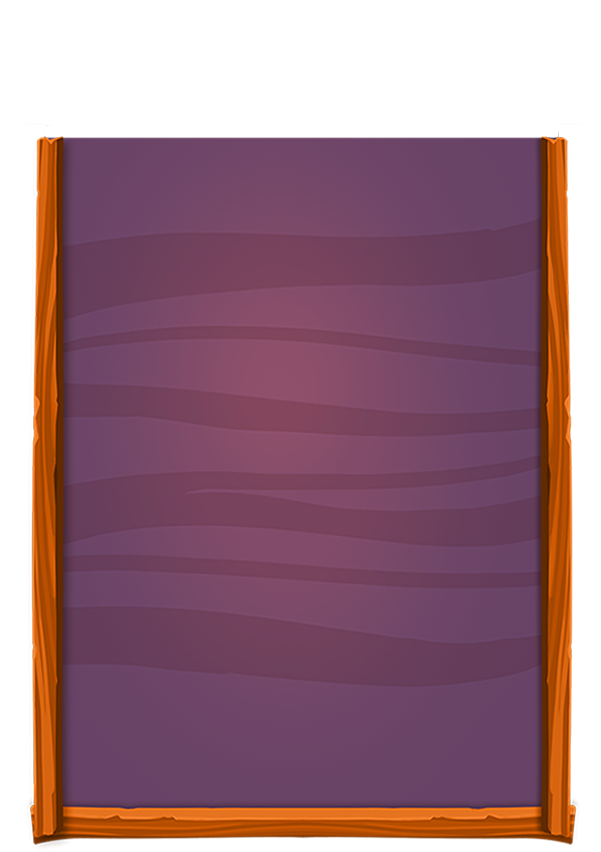
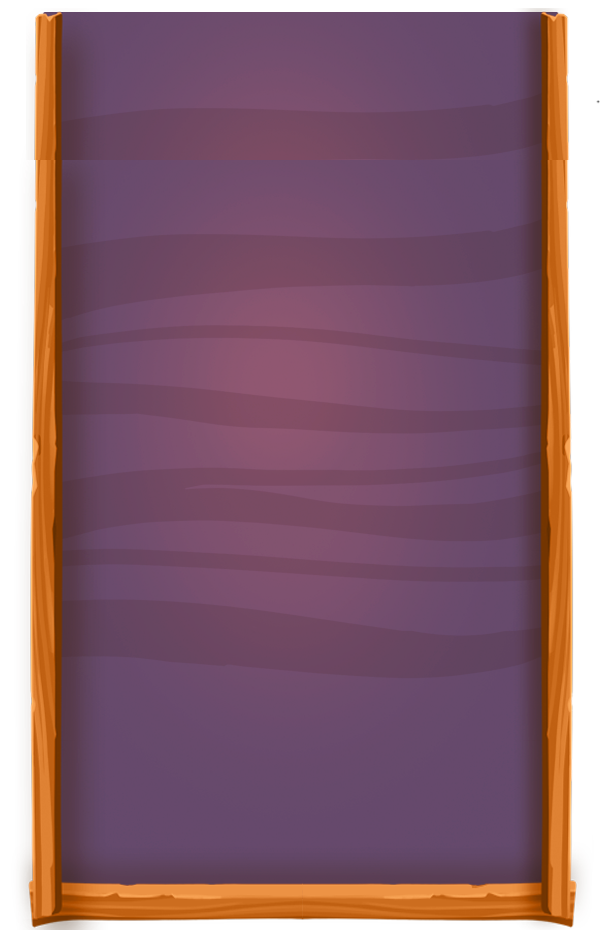
resize shop window

Changed region(s): [[0.03, 0.0, 0.9584, 1.0]]

diff --git a/src/scripts/scenes/Modal/Shop/Bars.ts b/src/scripts/scenes/Modal/Shop/Bars.ts
@@ -20,10 +20,10 @@ class ShopBars extends Phaser.Scene {
   public create(): void {
     
     // бахрама
-    this.add.sprite(this.cameras.main.centerX, this.cameras.main.centerY - 300, 'shop-head').setDepth(2);
+    this.add.sprite(this.cameras.main.centerX, this.cameras.main.centerY - 390, 'shop-head').setDepth(2);
 
     // кнопка закрыть
-    let close: Phaser.GameObjects.Sprite = this.add.sprite(605, this.cameras.main.centerY - 375, 'shop-close');
+    let close: Phaser.GameObjects.Sprite = this.add.sprite(605, this.cameras.main.centerY - 465, 'shop-close');
     this.clickButtonUp(close, (): void => {
 
       this.game.scene.keys[this.state.farm].scrolling.wheel = true;
@@ -36,10 +36,10 @@ class ShopBars extends Phaser.Scene {
     //натив вкладки с бустами
     this.nativeBoost = this.add.graphics()
       .fillStyle(0xFF2400, 1)
-      .fillCircle(550, this.cameras.main.centerY - 430, 20)
+      .fillCircle(550, this.cameras.main.centerY - 520, 20)
       .setDepth(2)
       .setVisible(false);
-    this.nativeBoostCounter = this.add.text(550, this.cameras.main.centerY - 430, String(this.state.nativeCounter[3]), {
+    this.nativeBoostCounter = this.add.text(550, this.cameras.main.centerY - 520, String(this.state.nativeCounter[3]), {
       font: '32px Shadow',
       color: '#f3eae6'
     }).setDepth(3)
@@ -53,13 +53,13 @@ class ShopBars extends Phaser.Scene {
     // кристаллы
     if (this.state.modal.shopType === 1) {
 
-      this.add.sprite(136, this.cameras.main.centerY - 395, 'shop-tab-active').setDepth(1);
-      this.add.sprite(136, this.cameras.main.centerY - 405, 'diamond').setScale(0.25).setDepth(1);
+      this.add.sprite(136, this.cameras.main.centerY - 485, 'shop-tab-active').setDepth(1);
+      this.add.sprite(136, this.cameras.main.centerY - 495, 'diamond').setScale(0.25).setDepth(1);
 
     } else {
       
-      let diamonds: Phaser.GameObjects.Sprite = this.add.sprite(136, this.cameras.main.centerY - 395, 'shop-tab');
-      let diamondsIcon: Phaser.GameObjects.Sprite = this.add.sprite(136, this.cameras.main.centerY - 397, 'diamond').setScale(0.25);
+      let diamonds: Phaser.GameObjects.Sprite = this.add.sprite(136, this.cameras.main.centerY - 485, 'shop-tab');
+      let diamondsIcon: Phaser.GameObjects.Sprite = this.add.sprite(136, this.cameras.main.centerY - 487, 'diamond').setScale(0.25);
       this.clickButtonUp(diamonds, (): void => {
   
         if (this.state.userSheep?.tutorial !== 90) {
@@ -97,13 +97,13 @@ class ShopBars extends Phaser.Scene {
     // монеты
     if (this.state.modal.shopType === 2) {
 
-      this.add.sprite(258, this.cameras.main.centerY - 395, 'shop-tab-active').setDepth(1);
-      this.add.sprite(258, this.cameras.main.centerY - 402, coinIcon).setScale(0.25).setDepth(1);
+      this.add.sprite(258, this.cameras.main.centerY - 485, 'shop-tab-active').setDepth(1);
+      this.add.sprite(258, this.cameras.main.centerY - 492, coinIcon).setScale(0.25).setDepth(1);
 
     } else {
 
-      let money: Phaser.GameObjects.Sprite = this.add.sprite(258, this.cameras.main.centerY - 395, 'shop-tab');
-      let moneyIcon: Phaser.GameObjects.Sprite = this.add.sprite(258, this.cameras.main.centerY - 395, coinIcon).setScale(0.25);
+      let money: Phaser.GameObjects.Sprite = this.add.sprite(258, this.cameras.main.centerY - 485, 'shop-tab');
+      let moneyIcon: Phaser.GameObjects.Sprite = this.add.sprite(258, this.cameras.main.centerY - 485, coinIcon).setScale(0.25);
       this.clickButtonUp(money, (): void => {
 
         if (this.state.userSheep?.tutorial !== 90) {
@@ -129,13 +129,13 @@ class ShopBars extends Phaser.Scene {
     // животные
     if (this.state.modal.shopType === 3) {
 
-      this.add.sprite(380, this.cameras.main.centerY - 395, 'shop-tab-active').setDepth(1);
-      this.add.sprite(380, this.cameras.main.centerY - 402, animalIconTexture).setDepth(1);
+      this.add.sprite(380, this.cameras.main.centerY - 485, 'shop-tab-active').setDepth(1);
+      this.add.sprite(380, this.cameras.main.centerY - 492, animalIconTexture).setDepth(1);
 
     } else {
 
-      let animal: Phaser.GameObjects.Sprite = this.add.sprite(380, this.cameras.main.centerY - 395, 'shop-tab');
-      let animalIcon: Phaser.GameObjects.Sprite = this.add.sprite(380, this.cameras.main.centerY - 397, animalIconTexture);
+      let animal: Phaser.GameObjects.Sprite = this.add.sprite(380, this.cameras.main.centerY - 485, 'shop-tab');
+      let animalIcon: Phaser.GameObjects.Sprite = this.add.sprite(380, this.cameras.main.centerY - 487, animalIconTexture);
       this.clickButtonUp(animal, (): void => {
 
         if (this.state.userSheep?.tutorial !== 90) {
@@ -160,13 +160,13 @@ class ShopBars extends Phaser.Scene {
     // бусты
     if (this.state.modal.shopType === 4) {
 
-      this.add.sprite(502, this.cameras.main.centerY - 395, 'shop-tab-active').setDepth(1);
-      this.add.sprite(502, this.cameras.main.centerY - 402, 'icon-shop-boosts').setDepth(1);
+      this.add.sprite(502, this.cameras.main.centerY - 485, 'shop-tab-active').setDepth(1);
+      this.add.sprite(502, this.cameras.main.centerY - 492, 'icon-shop-boosts').setDepth(1);
 
     } else {
 
-      let boosts: Phaser.GameObjects.Sprite = this.add.sprite(502, this.cameras.main.centerY - 395, 'shop-tab');
-      let boostsIcon: Phaser.GameObjects.Sprite = this.add.sprite(502, this.cameras.main.centerY - 397, 'icon-shop-boosts');
+      let boosts: Phaser.GameObjects.Sprite = this.add.sprite(502, this.cameras.main.centerY - 485, 'shop-tab');
+      let boostsIcon: Phaser.GameObjects.Sprite = this.add.sprite(502, this.cameras.main.centerY - 487, 'icon-shop-boosts');
       this.clickButtonUp(boosts, (): void => {
 
         let modal: Imodal = {

diff --git a/src/scripts/scenes/Modal/Shop/Main.ts b/src/scripts/scenes/Modal/Shop/Main.ts
@@ -58,7 +58,7 @@ class Shop extends Phaser.Scene {
   public state: Istate;
   public scrolling: Scrolling;
   public height: number;
-  public heightWindow: number = 625;
+  public heightWindow: number = 845;
   public buttons: IshopButtons[];
   public collectorTimer: Phaser.GameObjects.Text;
   public herdBoostTimerText: Phaser.GameObjects.Text;
@@ -135,7 +135,7 @@ class Shop extends Phaser.Scene {
 
     let cameraOptions = {
       x: 130,
-      y: this.cameras.main.centerY - 260,
+      y: this.cameras.main.centerY - 360,
       width: 460,
       height: this.heightWindow,
       wheel: true,
@@ -188,7 +188,7 @@ class Shop extends Phaser.Scene {
       this.state.user.additionalTutorial.herdBoost) this.herdBoost(); // проверяем главу и создаем окно только если глава выше 6
       
       if (this.state[`user${this.state.farm}`].part >= this.game.scene.keys[this.state.farm].feedBoostLvl) {
-        this.scrolling.bottom = this.height - this.heightWindow + 900;
+        this.scrolling.bottom = this.height - this.heightWindow + 920;
         this.feedBoost();
       }
       

diff --git a/src/scripts/general/basic.ts b/src/scripts/general/basic.ts
@@ -2115,7 +2115,7 @@ function collectorBoost(): void {
 function herdBoost(): void {
 
   this.add.tileSprite(0, 344 + this.height, 466, 270, 'boost-bg').setOrigin(0, 0);
-  this.add.text(240, 380 + this.height, this.state.lang[`herdBoostTitle${this.state.farm}`], { // Заменить текст
+  this.add.text(240, 380 + this.height, this.state.lang[`herdBoostTitle${this.state.farm}`], { 
     font: '28px Shadow',
     color: '#FFFFFF',
     wordWrap: { width: 300 },
@@ -2193,6 +2193,12 @@ function herdBoost(): void {
 
 function feedBoost(): void {
   this.add.tileSprite(0, 630 + this.height, 466, 270, 'boost-bg').setOrigin(0, 0);
+  this.add.text(240, 650 + this.height, this.state.lang.feedBoostTitle, { 
+    font: '28px Shadow',
+    color: '#FFFFFF',
+    wordWrap: { width: 300 },
+    align: 'center'
+  }).setOrigin(0.5, 0.5).setStroke('#8B4A84', 2);
 }
 
 

diff --git a/src/scripts/langs.ts b/src/scripts/langs.ts
@@ -433,7 +433,8 @@ export default {
     herdBoostBadMerge: 'Упс!',
     feedBoostCounterText: 'Комбикорма хватит еще на ',
     exchangeRepositoryBtn: 'Сменить хранилище на ...',
-    exchangeRepositoryTitle: 'Ты можешь сменить Хранилище 1$ уровня на другую постройку'
+    exchangeRepositoryTitle: 'Ты можешь сменить Хранилище 1$ уровня на другую постройку',
+    feedBoostTitle: 'Комбикорм'
   },
   en: {
     index: 'ru',

diff --git a/src/scripts/scenes/Modal/Modal.ts b/src/scripts/scenes/Modal/Modal.ts
@@ -274,7 +274,7 @@ class Modal extends Phaser.Scene {
         this.systemWindow();
         break;
       case 2: // магазин
-        this.add.sprite(this.cameras.main.centerX, this.cameras.main.centerY, 'shop-window');
+        this.add.sprite(this.cameras.main.centerX, this.cameras.main.centerY + 70, 'shop-window');
         this.scene.launch('Shop', this.state);
         break;
       case 3: // окно с заданиями
